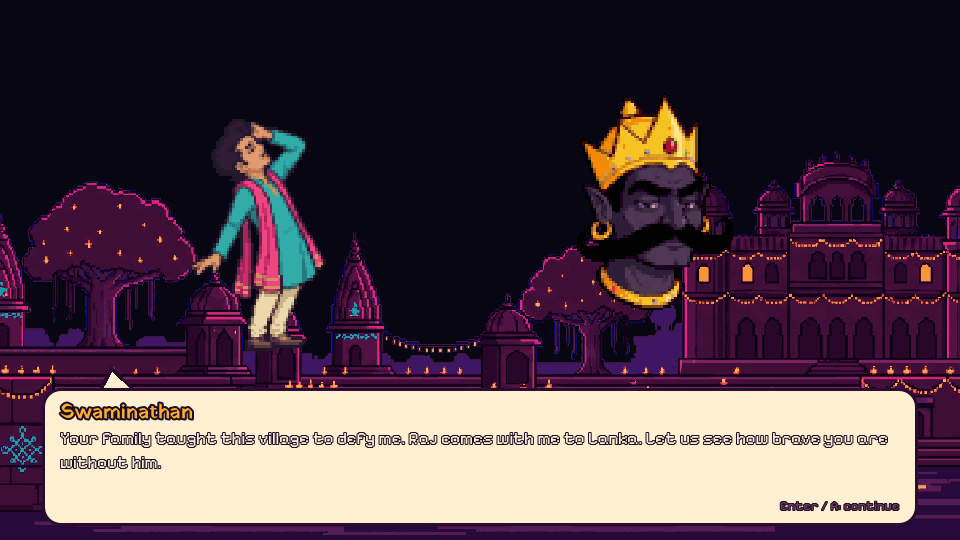
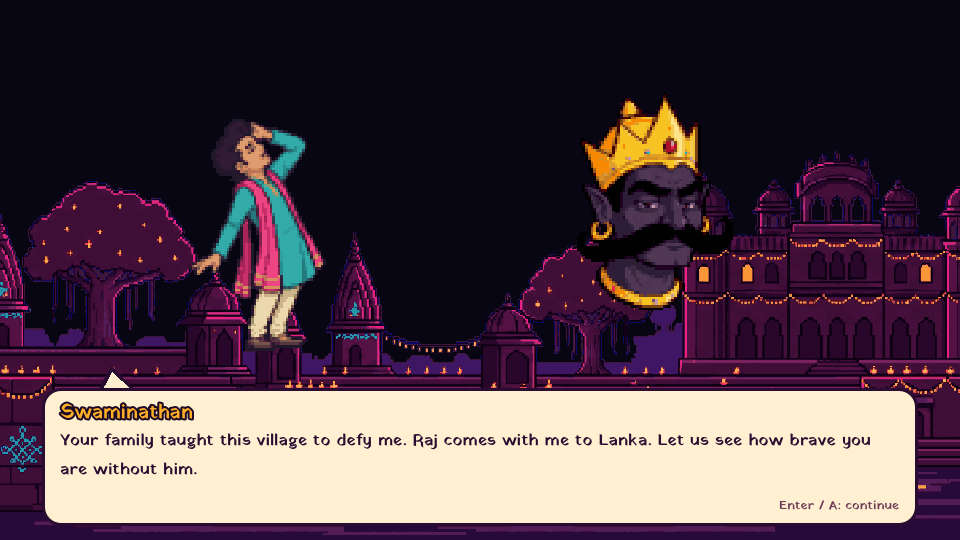
test: verify the consolidated campaign UI and packed opening

Changed region(s): [[0.0625, 0.8, 0.9375, 0.8889], [0.8125, 0.9185, 0.9375, 0.9481]]

diff --git a/docs/team_baseline.md b/docs/team_baseline.md
@@ -5,6 +5,18 @@ marks this integration so the team can return to the same tested revision.
 Keep new changes on a feature branch and open a PR back to `main`.
 The earlier `team-baseline-2026-10-06` tag is retained for recovery.
 
+## Follow-up consolidation
+
+Current `main` also includes `feat/game-typography`, the campaign dialogue adapted
+from `siyaraj.refined.txt`, the forest background composition fix, and
+`t3/remove-siya-melee-effect`. The existing baseline tags retain their earlier
+revisions. All fetched feature branch tips are included in this consolidation.
+
+New Game now starts with Raj's abduction before the forest. All three bosses have
+introductions and aftermath dialogue; the finale reveals Robin's allegiance and
+ends with Siya and Raj together. The new typography and shared result buttons
+remain in use alongside these sequences. The regression runner now has 31 suites.
+
 ## Refresh after the first baseline
 
 - Local cast gameplay integration, Raj's ending and the expanded Robin library.
